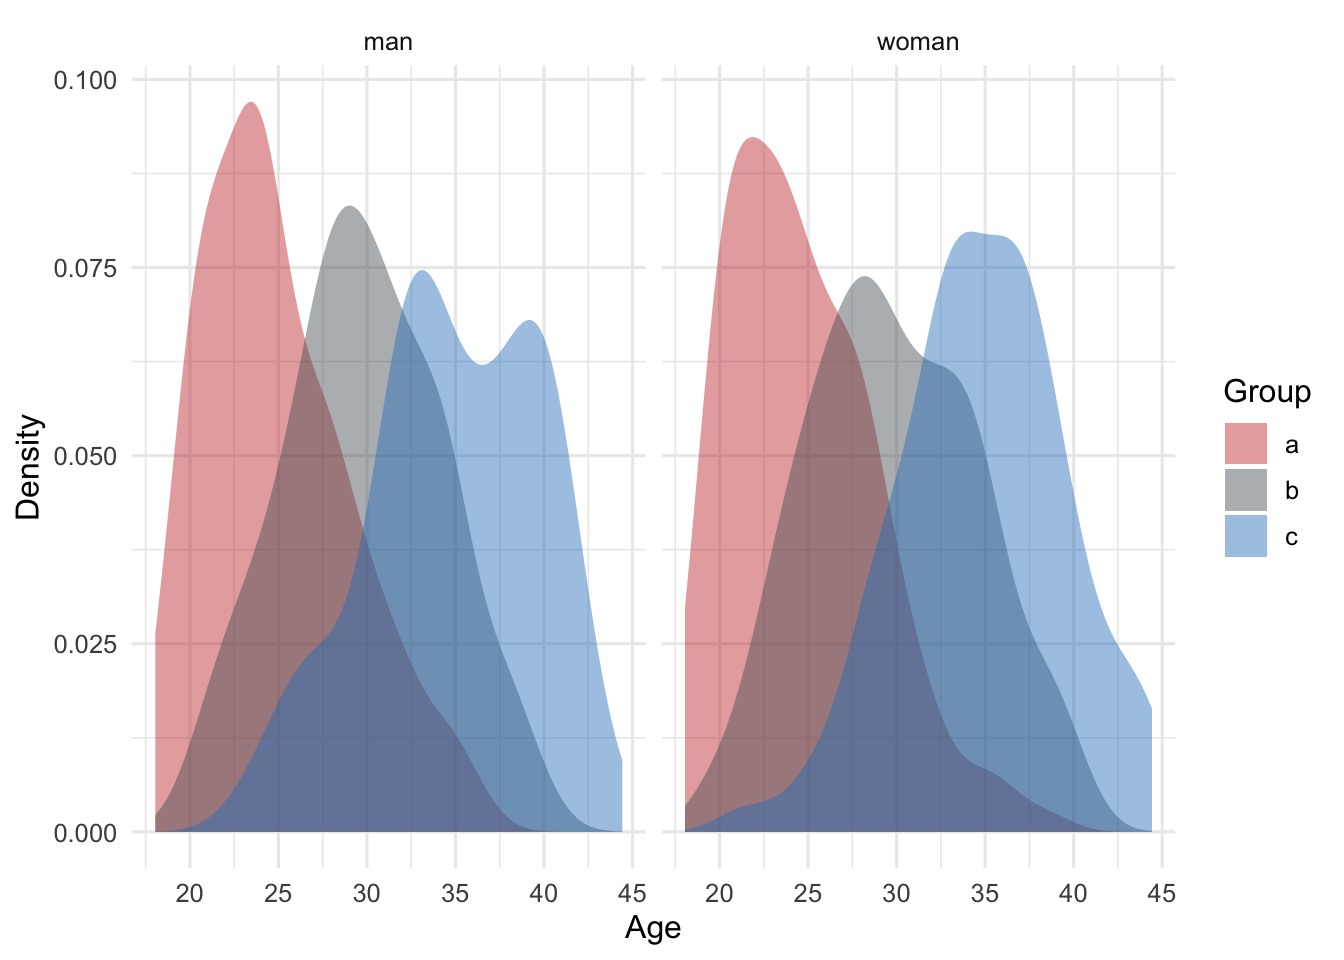
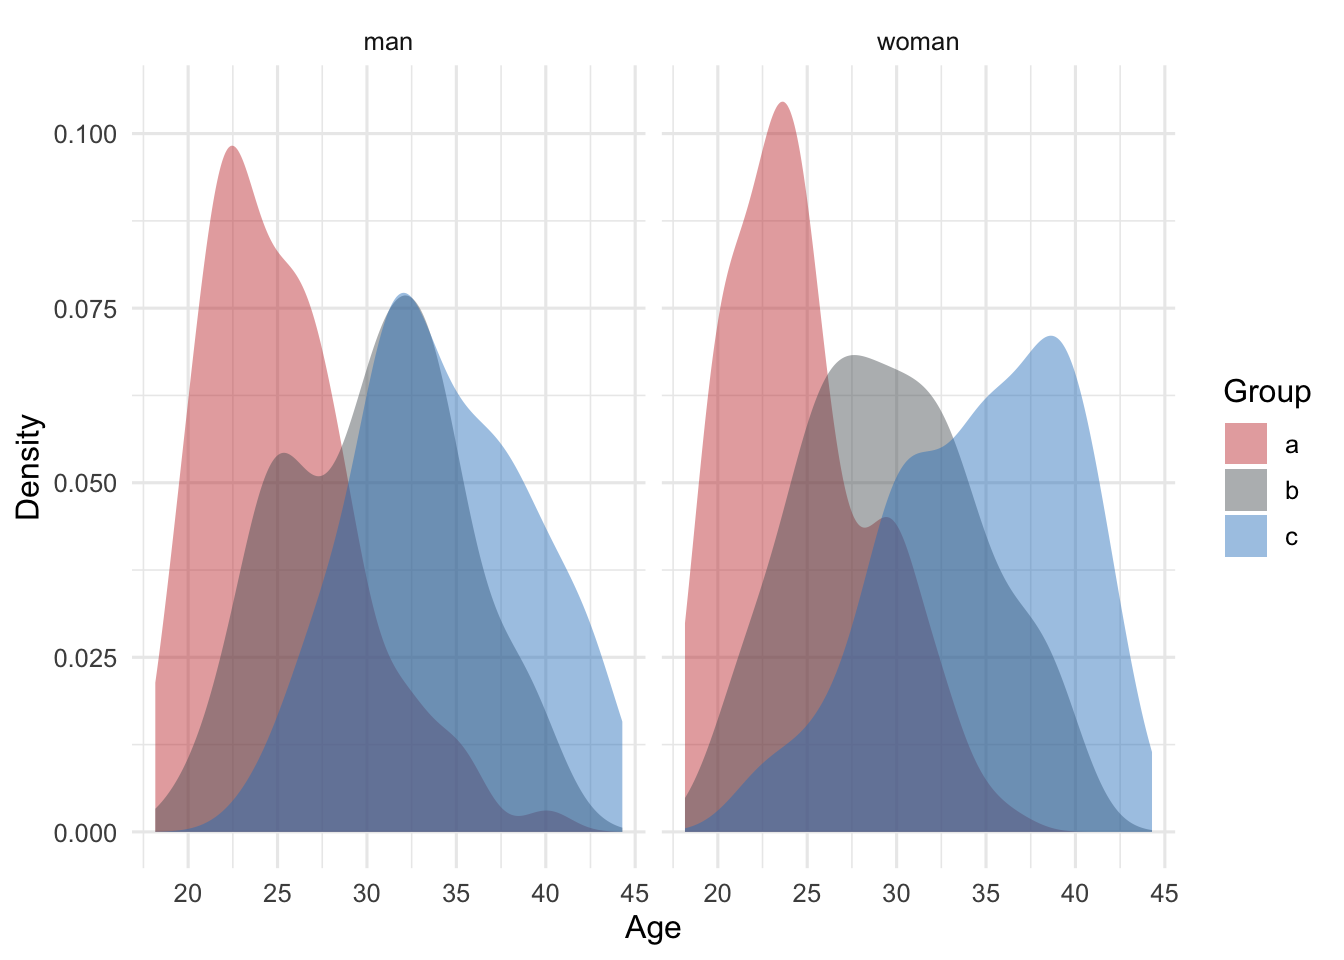
Built site for gh-pages

diff --git a/blog/actors-and-locations/index.html b/blog/actors-and-locations/index.html
@@ -186,9 +186,10 @@ div.csl-indent {
   <li><a href="#building-a-simulated-marriage-market" id="toc-building-a-simulated-marriage-market" class="nav-link" data-scroll-target="#building-a-simulated-marriage-market">Building a simulated marriage market</a>
   <ul class="collapse">
   <li><a href="#positions" id="toc-positions" class="nav-link" data-scroll-target="#positions">Positions</a></li>
-  </ul></li>
   <li><a href="#actors" id="toc-actors" class="nav-link" data-scroll-target="#actors">Actors</a></li>
   <li><a href="#assigning-actors-to-locations" id="toc-assigning-actors-to-locations" class="nav-link" data-scroll-target="#assigning-actors-to-locations">Assigning actors to locations</a></li>
+  </ul></li>
+  <li><a href="#the-final-marriage-market" id="toc-the-final-marriage-market" class="nav-link" data-scroll-target="#the-final-marriage-market">The final marriage market</a></li>
   </ul>
 </nav>
     </div>
@@ -304,9 +305,8 @@ div.csl-indent {
 <span id="cb3-9"><a href="#cb3-9" aria-hidden="true" tabindex="-1"></a>xy<span class="ot">&lt;-</span><span class="fu">make_positions</span>(n)</span></code><button title="Copy to Clipboard" class="code-copy-button"><i class="bi"></i></button></pre></div>
 </div>
 </section>
-</section>
-<section id="actors" class="level2">
-<h2 data-anchor-id="actors">Actors</h2>
+<section id="actors" class="level3">
+<h3 data-anchor-id="actors">Actors</h3>
 <p>For the actors, I assume they are split into two genders, men and women, with sebsequent unions constituted by opposite gendered pairs. I’ll make the market gender balanced for the sake of simplicity, and when all is said and done, each actor will be paired with one and only one opposite gender partner. Beyond gender and (eventually) position, I stipulate that each actor is characterized by just two other attributes: group membership, proxying something like race or ethnicity, and age, with the possibility of different age distributions for each group.</p>
 <p>I use scaled beta distributions to generate the ages. This allows me to constrain the ages to fall between two bounds. This is represented in the following function:</p>
 <div class="cell">
@@ -347,16 +347,16 @@ div.csl-indent {
 <pre><code># A tibble: 10 × 4
       id sex   group   age
    &lt;int&gt; &lt;chr&gt; &lt;chr&gt; &lt;dbl&gt;
- 1   458 man   b      26.4
- 2   442 man   b      23.6
- 3    17 man   a      25.3
- 4   698 man   c      37.7
- 5   400 woman a      24.0
- 6   339 woman a      27.5
- 7    98 man   a      19.5
- 8   654 man   c      25.0
- 9   321 woman a      22.8
-10   154 man   a      34.9</code></pre>
+ 1   163 man   a      29.7
+ 2   280 woman a      21.2
+ 3     7 man   a      22.9
+ 4   566 woman b      25.3
+ 5   520 man   b      22.1
+ 6   329 woman a      32.3
+ 7   744 woman c      33.7
+ 8    79 man   a      21.9
+ 9   614 woman b      31.0
+10   630 woman b      30.1</code></pre>
 </div>
 </div>
 <p>The differing sampled age distributions, broken down separately for men and women, can be visualized using a density plot:</p>
@@ -378,8 +378,8 @@ div.csl-indent {
 </div>
 </div>
 </section>
-<section id="assigning-actors-to-locations" class="level2">
-<h2 data-anchor-id="assigning-actors-to-locations">Assigning actors to locations</h2>
+<section id="assigning-actors-to-locations" class="level3">
+<h3 data-anchor-id="assigning-actors-to-locations">Assigning actors to locations</h3>
 <p>I want to introduce some group and age segregation into the simulated marriage market. I accomplish this by designating a set of attraction points. A point in the center pulls in younger actors. Then a set of three, group-specific poles outside the center pull in members of the respective group.</p>
 <div class="cell">
 <div class="sourceCode cell-code" id="cb8"><pre class="sourceCode r code-with-copy"><code class="sourceCode r"><span id="cb8-1"><a href="#cb8-1" aria-hidden="true" tabindex="-1"></a>poles <span class="ot">&lt;-</span> <span class="fu">tibble</span>(</span>
@@ -476,6 +476,10 @@ div.csl-indent {
 <span id="cb9-50"><a href="#cb9-50" aria-hidden="true" tabindex="-1"></a>  <span class="fu">left_join</span>(xy, <span class="at">by =</span> <span class="st">"position_id"</span>) <span class="sc">|&gt;</span></span>
 <span id="cb9-51"><a href="#cb9-51" aria-hidden="true" tabindex="-1"></a>  <span class="fu">select</span>(<span class="sc">-</span>position_id)</span></code><button title="Copy to Clipboard" class="code-copy-button"><i class="bi"></i></button></pre></div>
 </div>
+</section>
+</section>
+<section id="the-final-marriage-market" class="level2">
+<h2 data-anchor-id="the-final-marriage-market">The final marriage market</h2>
 <p>The resulting distribution of actors can be visualized as follows:</p>
 <div class="cell">
 <div class="sourceCode cell-code" id="cb10"><pre class="sourceCode r code-with-copy"><code class="sourceCode r"><span id="cb10-1"><a href="#cb10-1" aria-hidden="true" tabindex="-1"></a><span class="fu">ggplot</span>(actors, <span class="fu">aes</span>(x, y, <span class="at">color =</span> group, <span class="at">shape =</span> sex, <span class="at">size =</span> age)) <span class="sc">+</span></span>

diff --git a/blog/index.html b/blog/index.html
@@ -201,7 +201,7 @@ window.Quarto = {
 
 <div class="quarto-listing quarto-listing-container-default" id="listing-listing">
 <div class="list quarto-listing-default">
[2 lines of base64/hex data omitted]
 <div class="thumbnail">
 <p><a href="../blog/actors-and-locations/index.html" class="no-external"></a></p><a href="../blog/actors-and-locations/index.html" class="no-external">
 <p class="card-img-top"><img src="actors-and-locations/index_files/figure-html/halton-vs-uniform-1.png"  class="thumbnail-image card-img"/></p>
